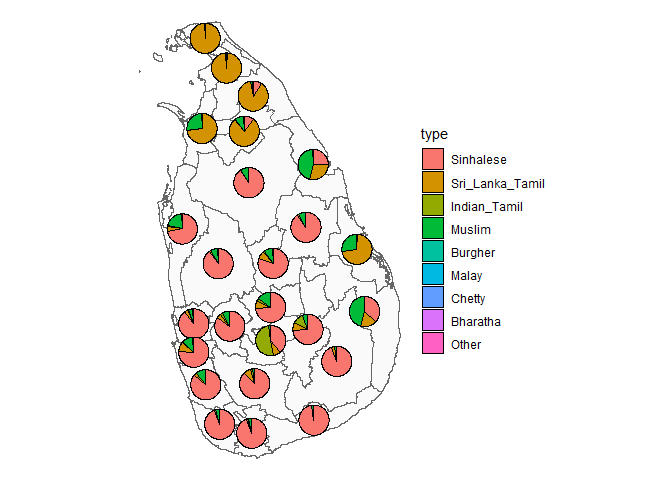
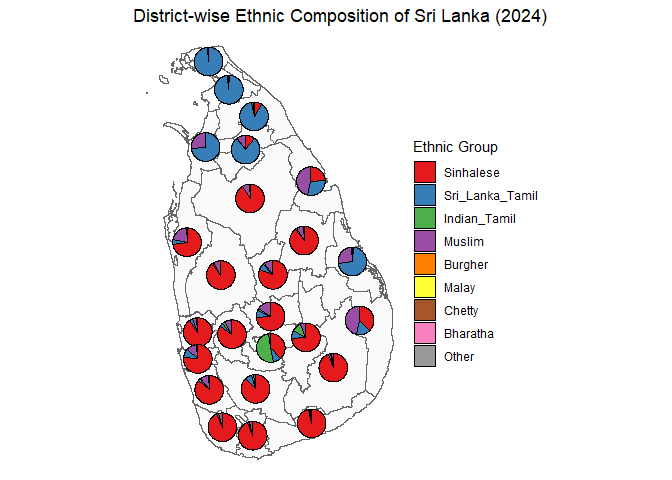
updated

Changed region(s): [[0.1875, 0.0, 0.8125, 0.9688]]

diff --git a/README.md b/README.md
@@ -46,12 +46,14 @@ View all available datasets.
 
 ``` r
 list_datasets()
-#>      Item                  
-#> [1,] "GNpop_by_EthnicGroup"
-#> [2,] "GNpop_by_Religion"   
+#>      Item                        
+#> [1,] "DISpop_by_FiveYearAgeGroup"
+#> [2,] "GNpop_by_EthnicGroup"      
+#> [3,] "GNpop_by_Religion"         
 #>      Title                                                             
-#> [1,] "Population by Ethnic Group According to Grama Niladhari Division"
-#> [2,] "Population by Religion According to Grama Niladhari Division"
+#> [1,] "Population by Five-Year Age Groups According to District"        
+#> [2,] "Population by Ethnic Group According to Grama Niladhari Division"
+#> [3,] "Population by Religion According to Grama Niladhari Division"
 ```
 
 Load a dataset.
@@ -60,6 +62,34 @@ Load a dataset.
 data("GNpop_by_EthnicGroup")
 
 head(GNpop_by_EthnicGroup)
+#>   District_Code District_Name DSD_Code DSD_Name GND_Code         GND_Name Total
+#> 1            11       Colombo        3  Colombo        5 Sammanthranapura  7640
+#> 2            11       Colombo        3  Colombo       10     Mattakkuliya 28135
+#> 3            11       Colombo        3  Colombo       15           Modara 31728
+#> 4            11       Colombo        3  Colombo       20      Madampitiya  7699
+#> 5            11       Colombo        3  Colombo       25        Mahawatta  7108
+#> 6            11       Colombo        3  Colombo       30     Aluthmawatha 13714
+#>   Sinhalese Sri_Lanka_Tamil Indian_Tamil_or_Malaiyaga_Thamilar
+#> 1      3234            2485                                 32
+#> 2      7454           11566                                596
+#> 3      8253           14043                                396
+#> 4      2156            2171                                438
+#> 5      3079            1728                                 29
+#> 6      3525            7103                                762
+#>   Sri_Lanka_Moor_or_Muslim Burgher Malay Sri_Lanka_Chetty Bharatha Veddahs
+#> 1                     1865      16    NA               NA       NA      NA
+#> 2                     8214     189    50               13       NA      NA
+#> 3                     8712     147   132               NA       25      NA
+#> 4                     2893      NA    34               NA       NA      NA
+#> 5                     2237      17    NA               NA       NA      NA
+#> 6                     2142     107    56               NA       NA      NA
+#>   Other
+#> 1     8
+#> 2    53
+#> 3    20
+#> 4     7
+#> 5    18
+#> 6    19
 ```
 
 Display the structure of the dataset.
@@ -98,29 +128,15 @@ View the dataset documentation.
 ?GNpop_by_EthnicGroup
 ```
 
+Visualization
+
 ``` r
 library(dplyr)
-#> 
-#> Attaching package: 'dplyr'
-#> The following objects are masked from 'package:stats':
-#> 
-#>     filter, lag
-#> The following objects are masked from 'package:base':
-#> 
-#>     intersect, setdiff, setequal, union
 library(sf)
-#> Linking to GEOS 3.14.1, GDAL 3.12.1, PROJ 9.7.1; sf_use_s2() is TRUE
 library(ceylon)
-#> 
-#> Attaching package: 'ceylon'
-#> The following object is masked from 'package:datasets':
-#> 
-#>     rivers
 library(tidyr)
 library(ggplot2)
 library(scatterpie)
-#> Warning: package 'scatterpie' was built under R version 4.6.1
-#> scatterpie v0.2.6 Learn more at https://yulab-smu.top/
 
 district_ethnic <- GNpop_by_EthnicGroup |>
   group_by(District_Name) |>
@@ -144,15 +160,12 @@ district_ethnic <- GNpop_by_EthnicGroup |>
   )
 
 
-
 districts <- ceylon::district |>
   filter(DISTRICT != "[UNKNOWN]") |>
   left_join(district_ethnic, by = "DISTRICT")
 
 
-
 centroids <- st_centroid(districts)
-#> Warning: st_centroid assumes attributes are constant over geometries
 xy <- st_coordinates(centroids)
 centroids$x <- xy[,1]
 centroids$y <- xy[,2]
@@ -185,7 +198,14 @@ ggplot() +
       "Other"
     )
   ) +
+  scale_fill_brewer(
+    palette = "Set1",
+    name = "Ethnic Group"
+  ) +
   coord_sf() +
+  labs(
+  title = "District-wise Ethnic Composition of Sri Lanka (2024)"
+) +
   theme_void()
 ```
 
